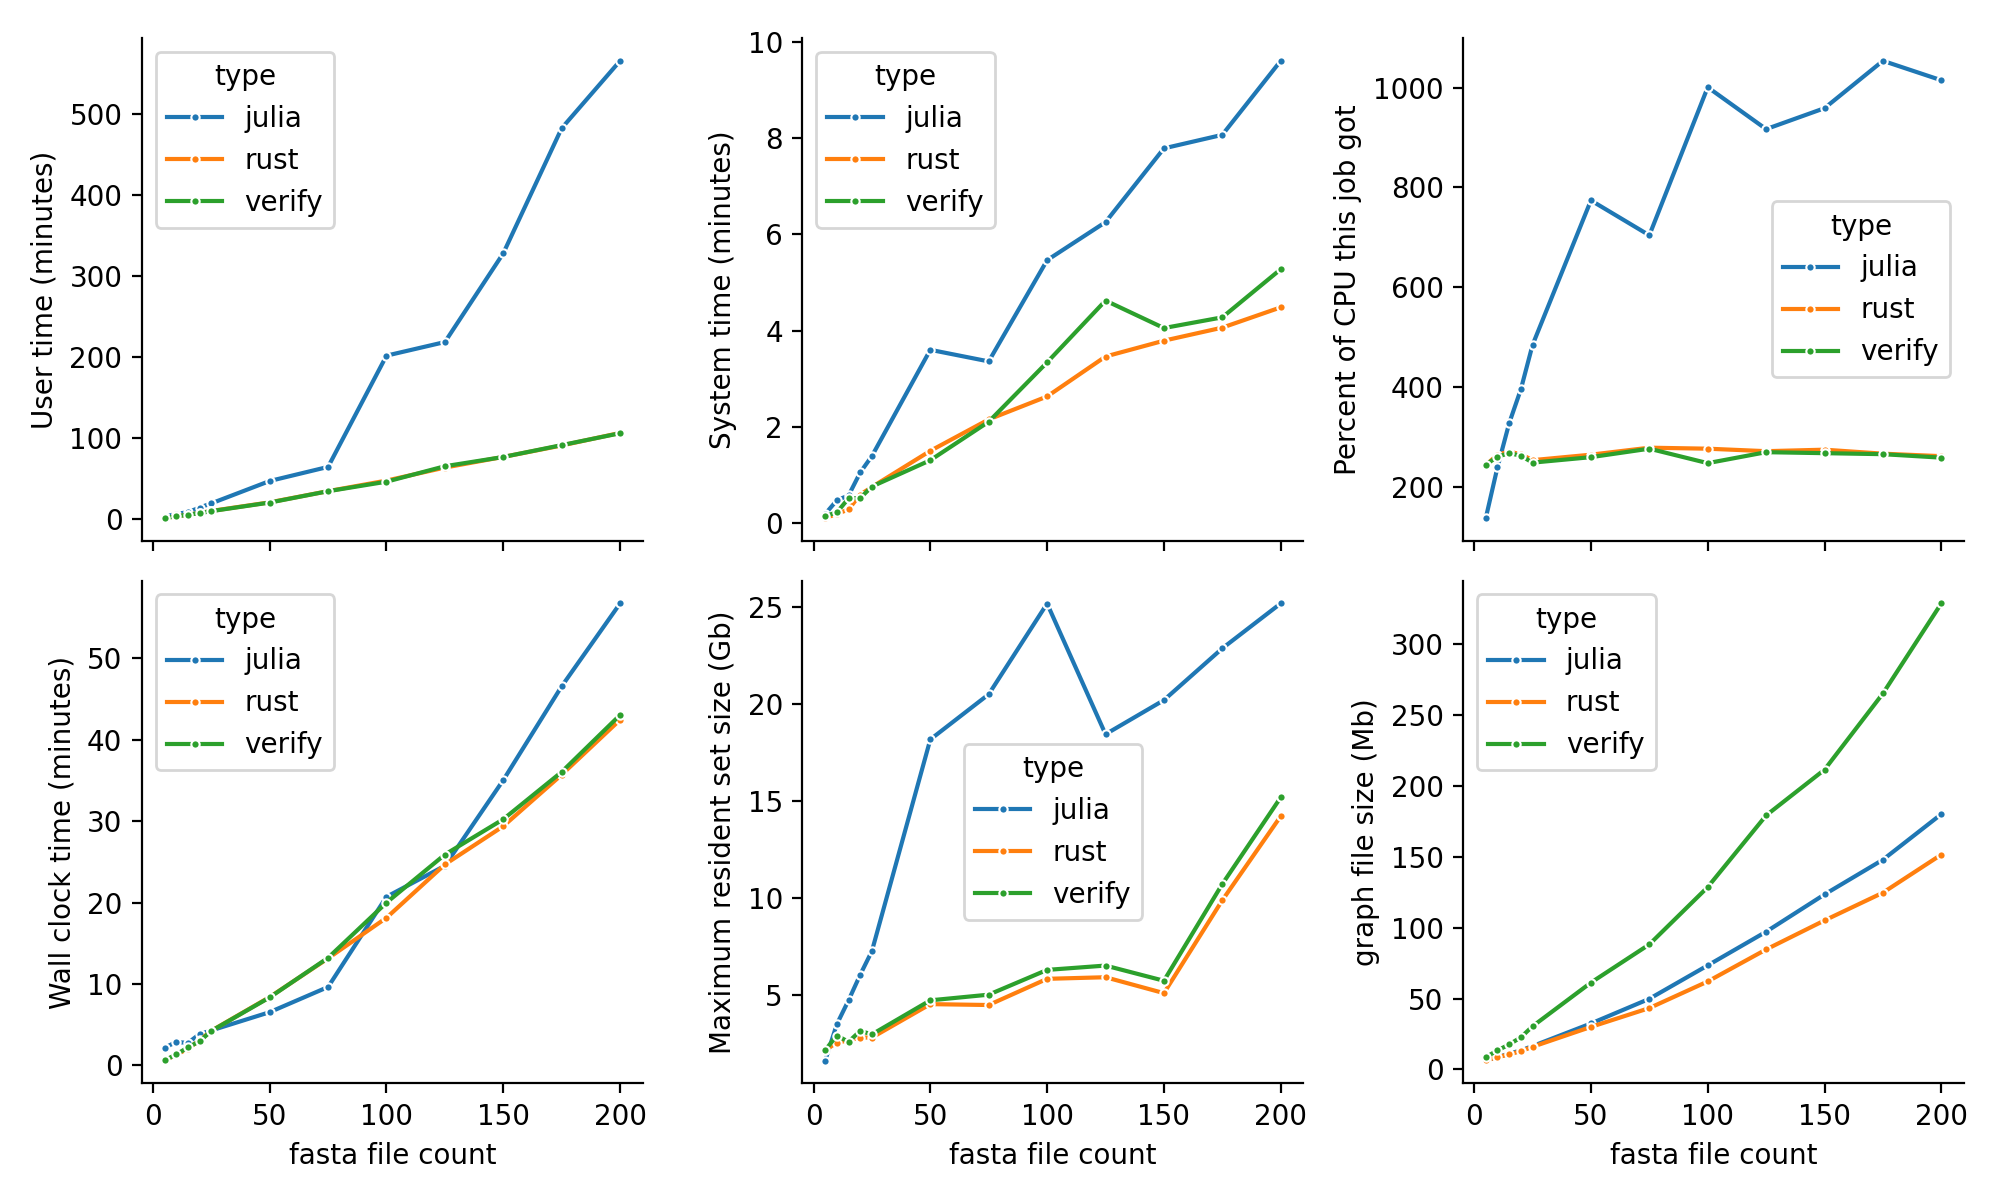
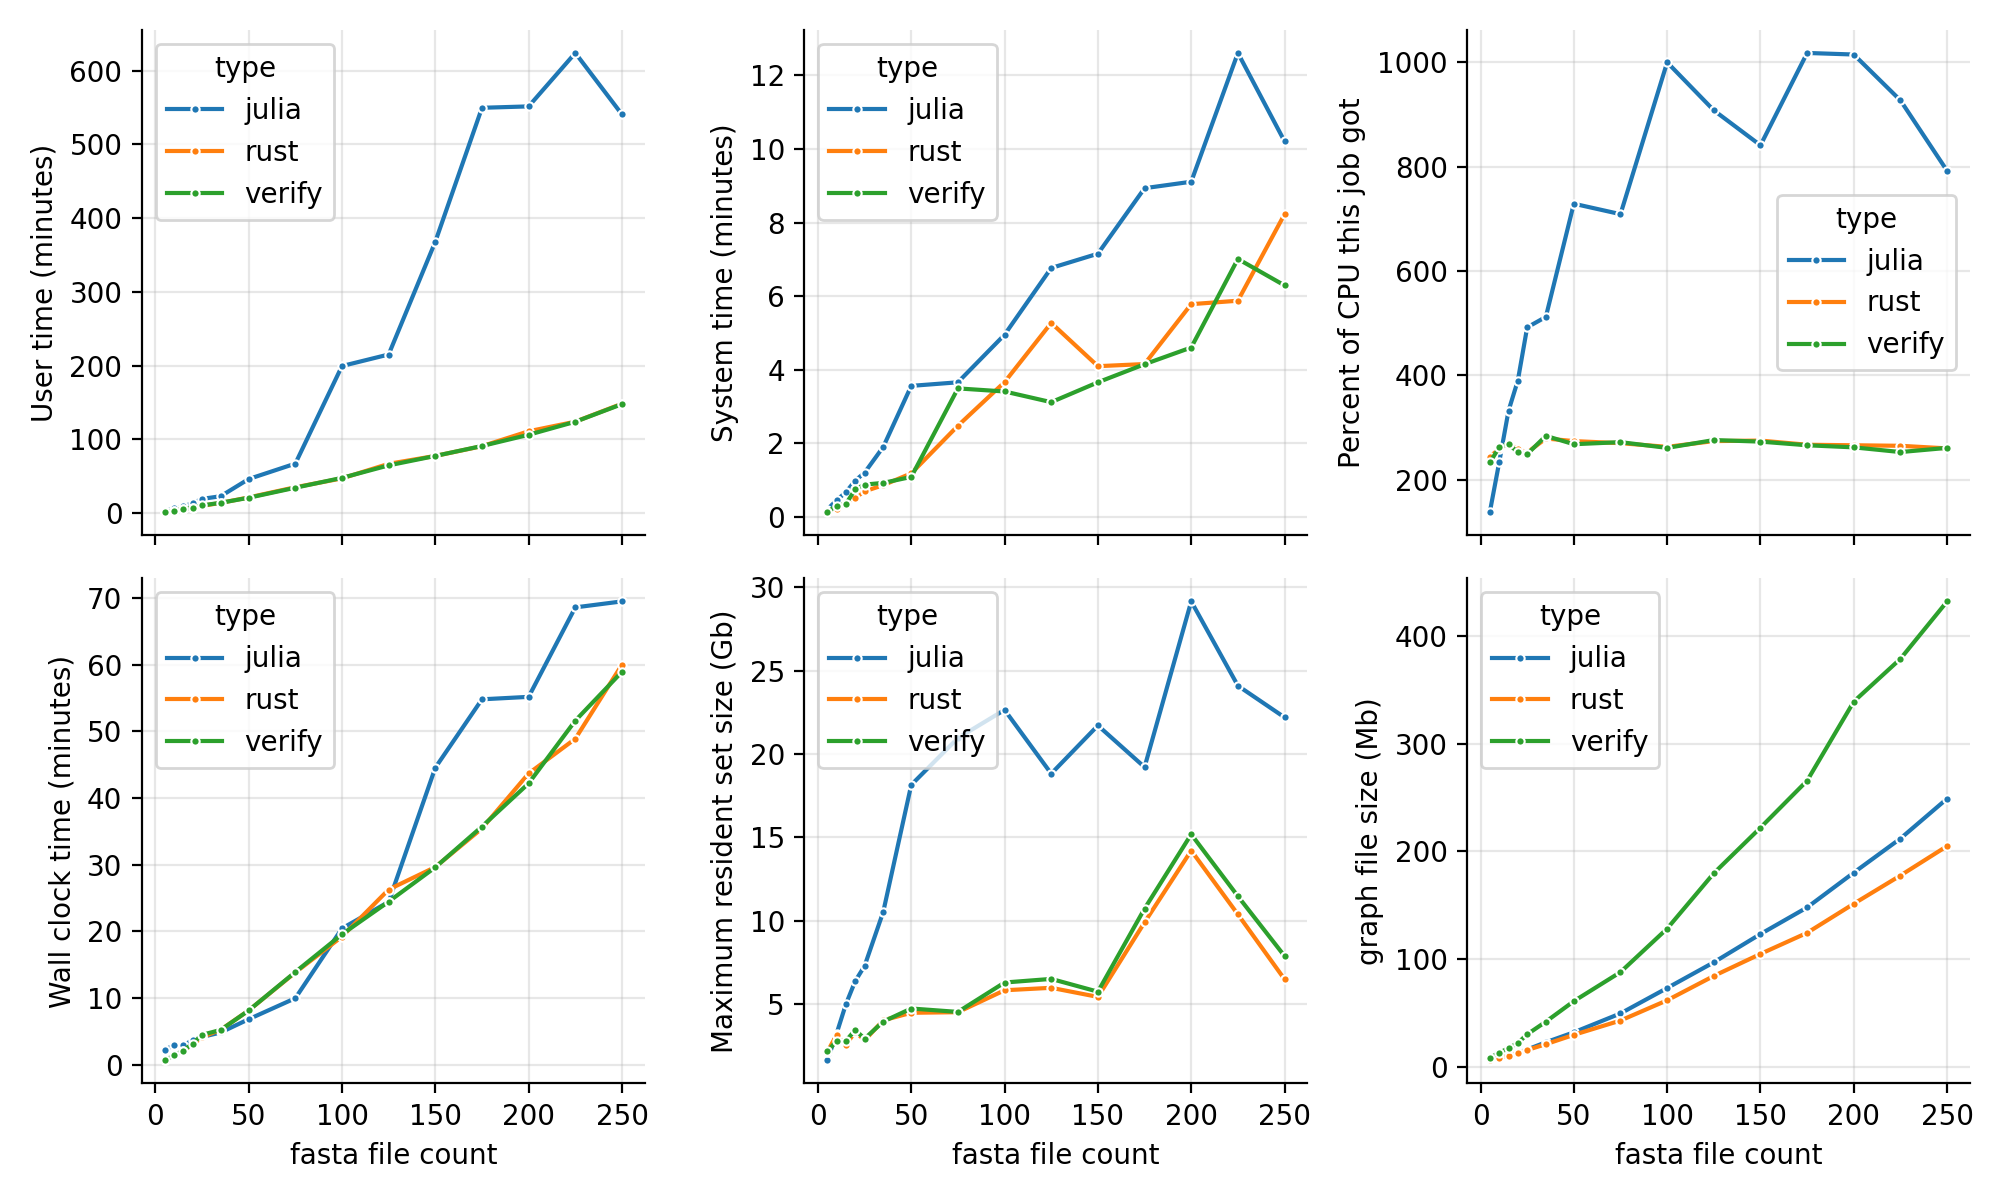
extend n and fix time parsing

diff --git a/scripts/summary_stats.py b/scripts/summary_stats.py
@@ -29,7 +29,12 @@ def assign_type(df):
     df["User time (minutes)"] = df["User time (seconds)"] / 60
     df["System time (minutes)"] = df["System time (seconds)"] / 60
     df["Maximum resident set size (Gb)"] = df["Maximum resident set size (kbytes)"] / 1024 / 1024
-    df["Wall clock time (minutes)"] = pd.to_timedelta("00:" + df["Elapsed (wall clock) time"]).dt.total_seconds() / 60
+
+    # add hours to times that are missing it
+    times = df["Elapsed (wall clock) time"].copy()
+    missing_hour_mask = df["Elapsed (wall clock) time"].str.count(":") < 2
+    times[missing_hour_mask] = "00:" + times
+    df["Wall clock time (minutes)"] = pd.to_timedelta(times).dt.total_seconds() / 60
     return df
 
 
@@ -54,8 +59,9 @@ def create_plots(df, fig_file, logscale=False):
     subpanel(y="Maximum resident set size (Gb)", ax=axs[1,1])
     subpanel(y="graph file size (Mb)", ax=axs[1,2])
 
-    if logscale:
-        for ax in axs.flatten():
+    for ax in axs.flatten():
+        ax.grid(alpha=0.3)
+        if logscale:
             ax.set_xscale("log")
             ax.set_yscale("log")
 
@@ -75,6 +81,7 @@ def save_dataframe(df, fname):
         "Wall clock time (minutes)",
         "Maximum resident set size (Gb)",
         "graph file size (Mb)",
+        "Exit status",
     ]
     sdf = df[selected_cols].copy()
     sdf.sort_values(selected_cols[:2], inplace=True)
